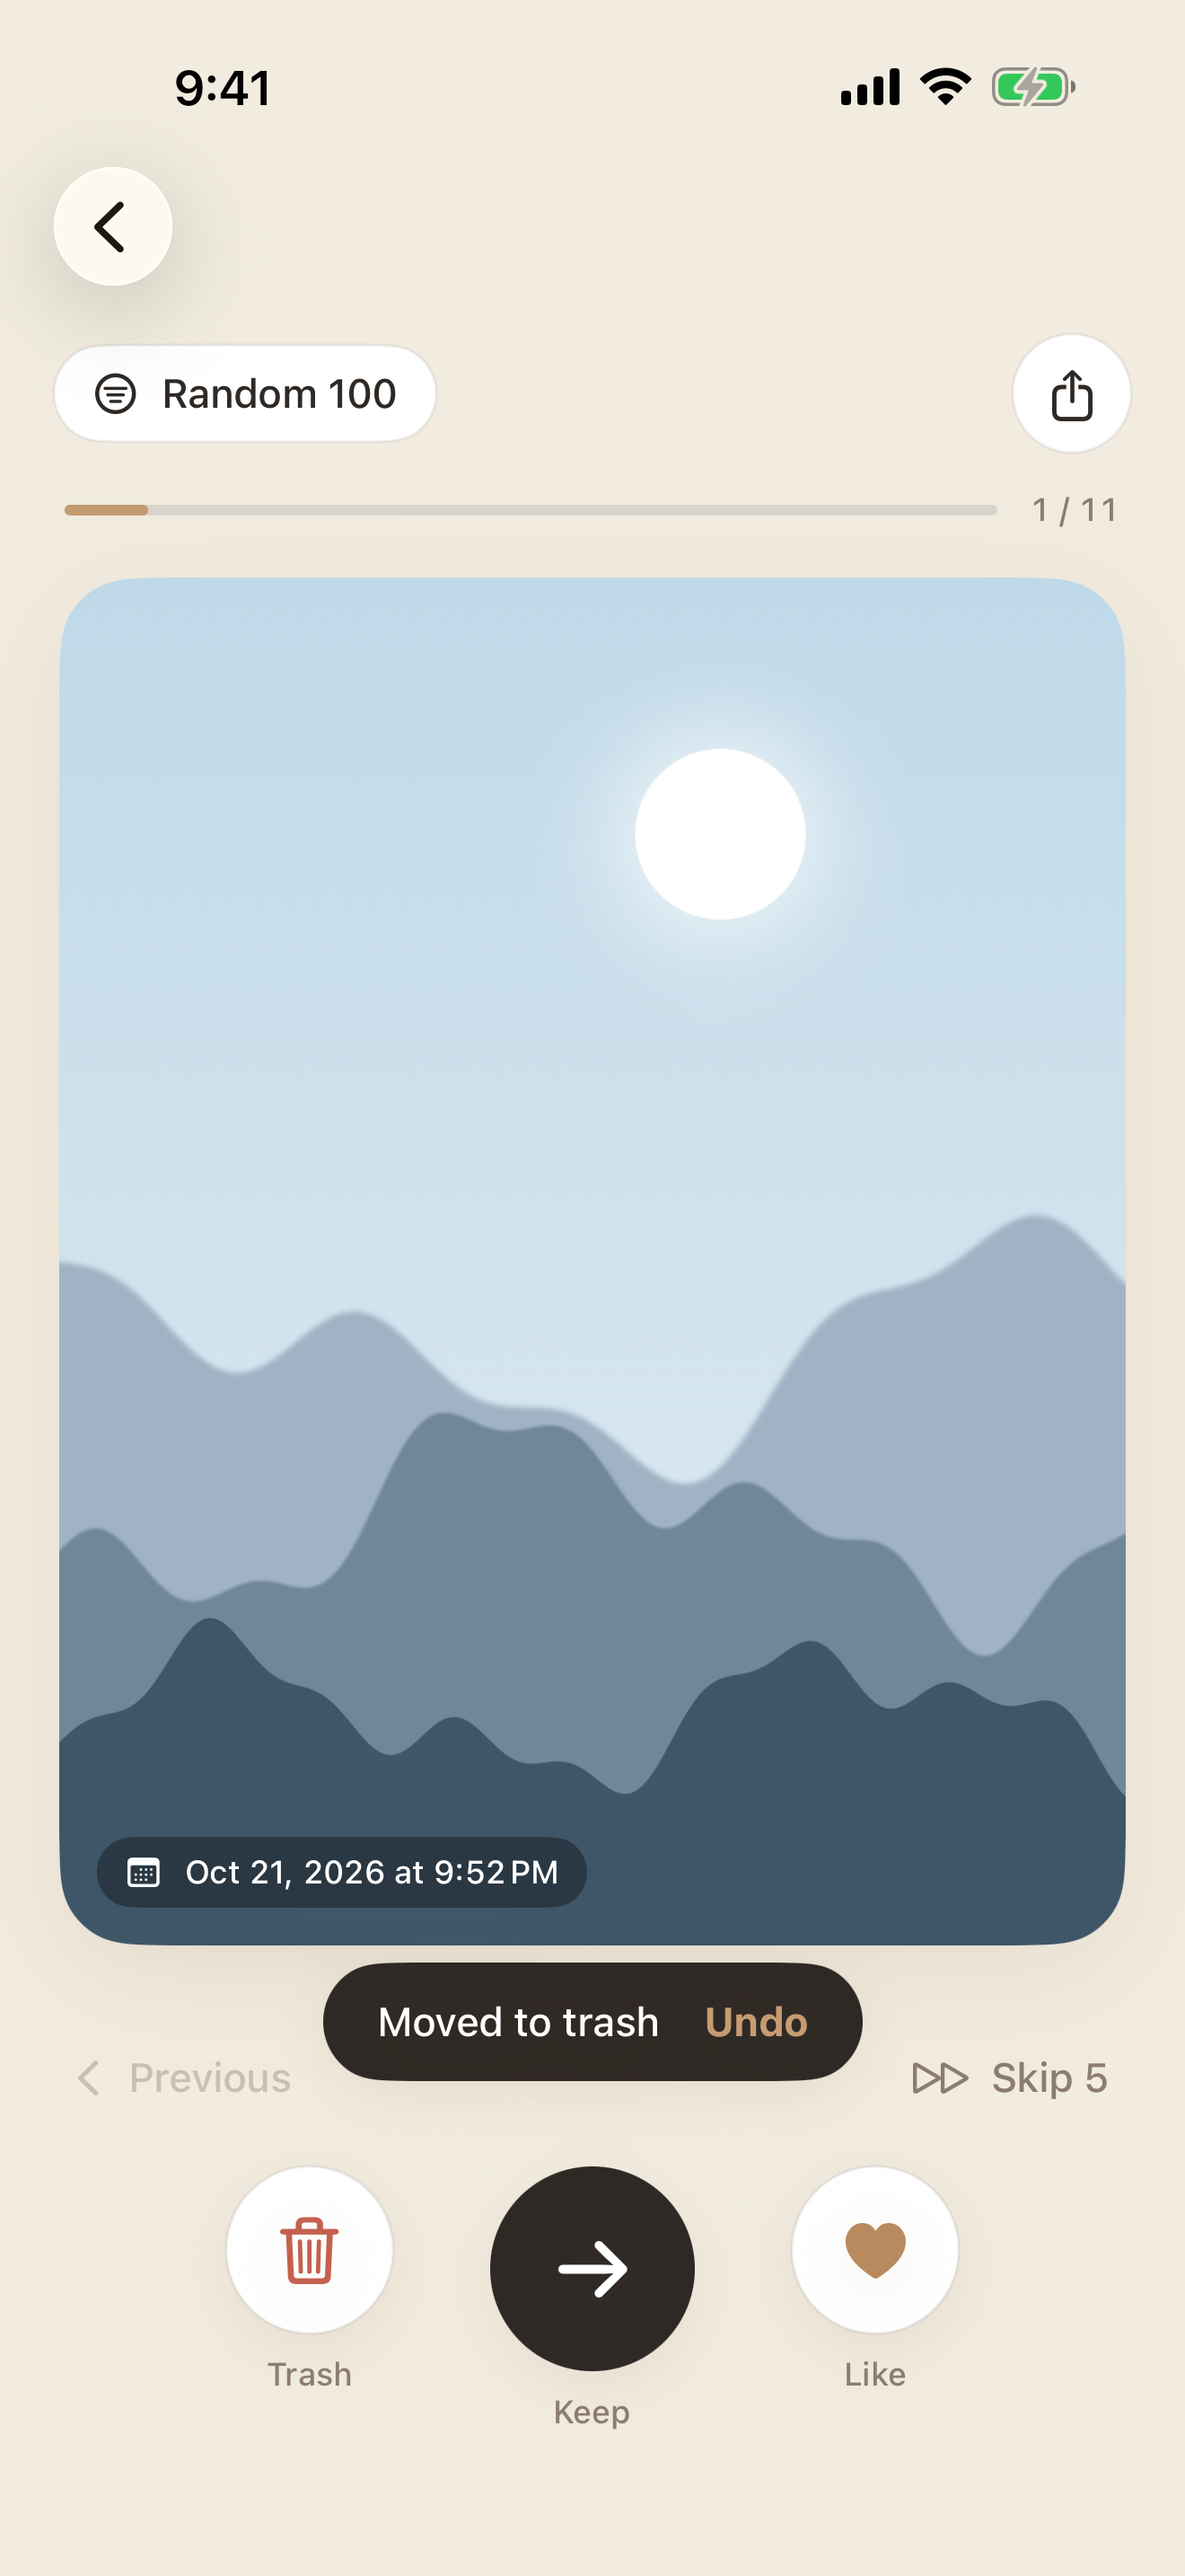
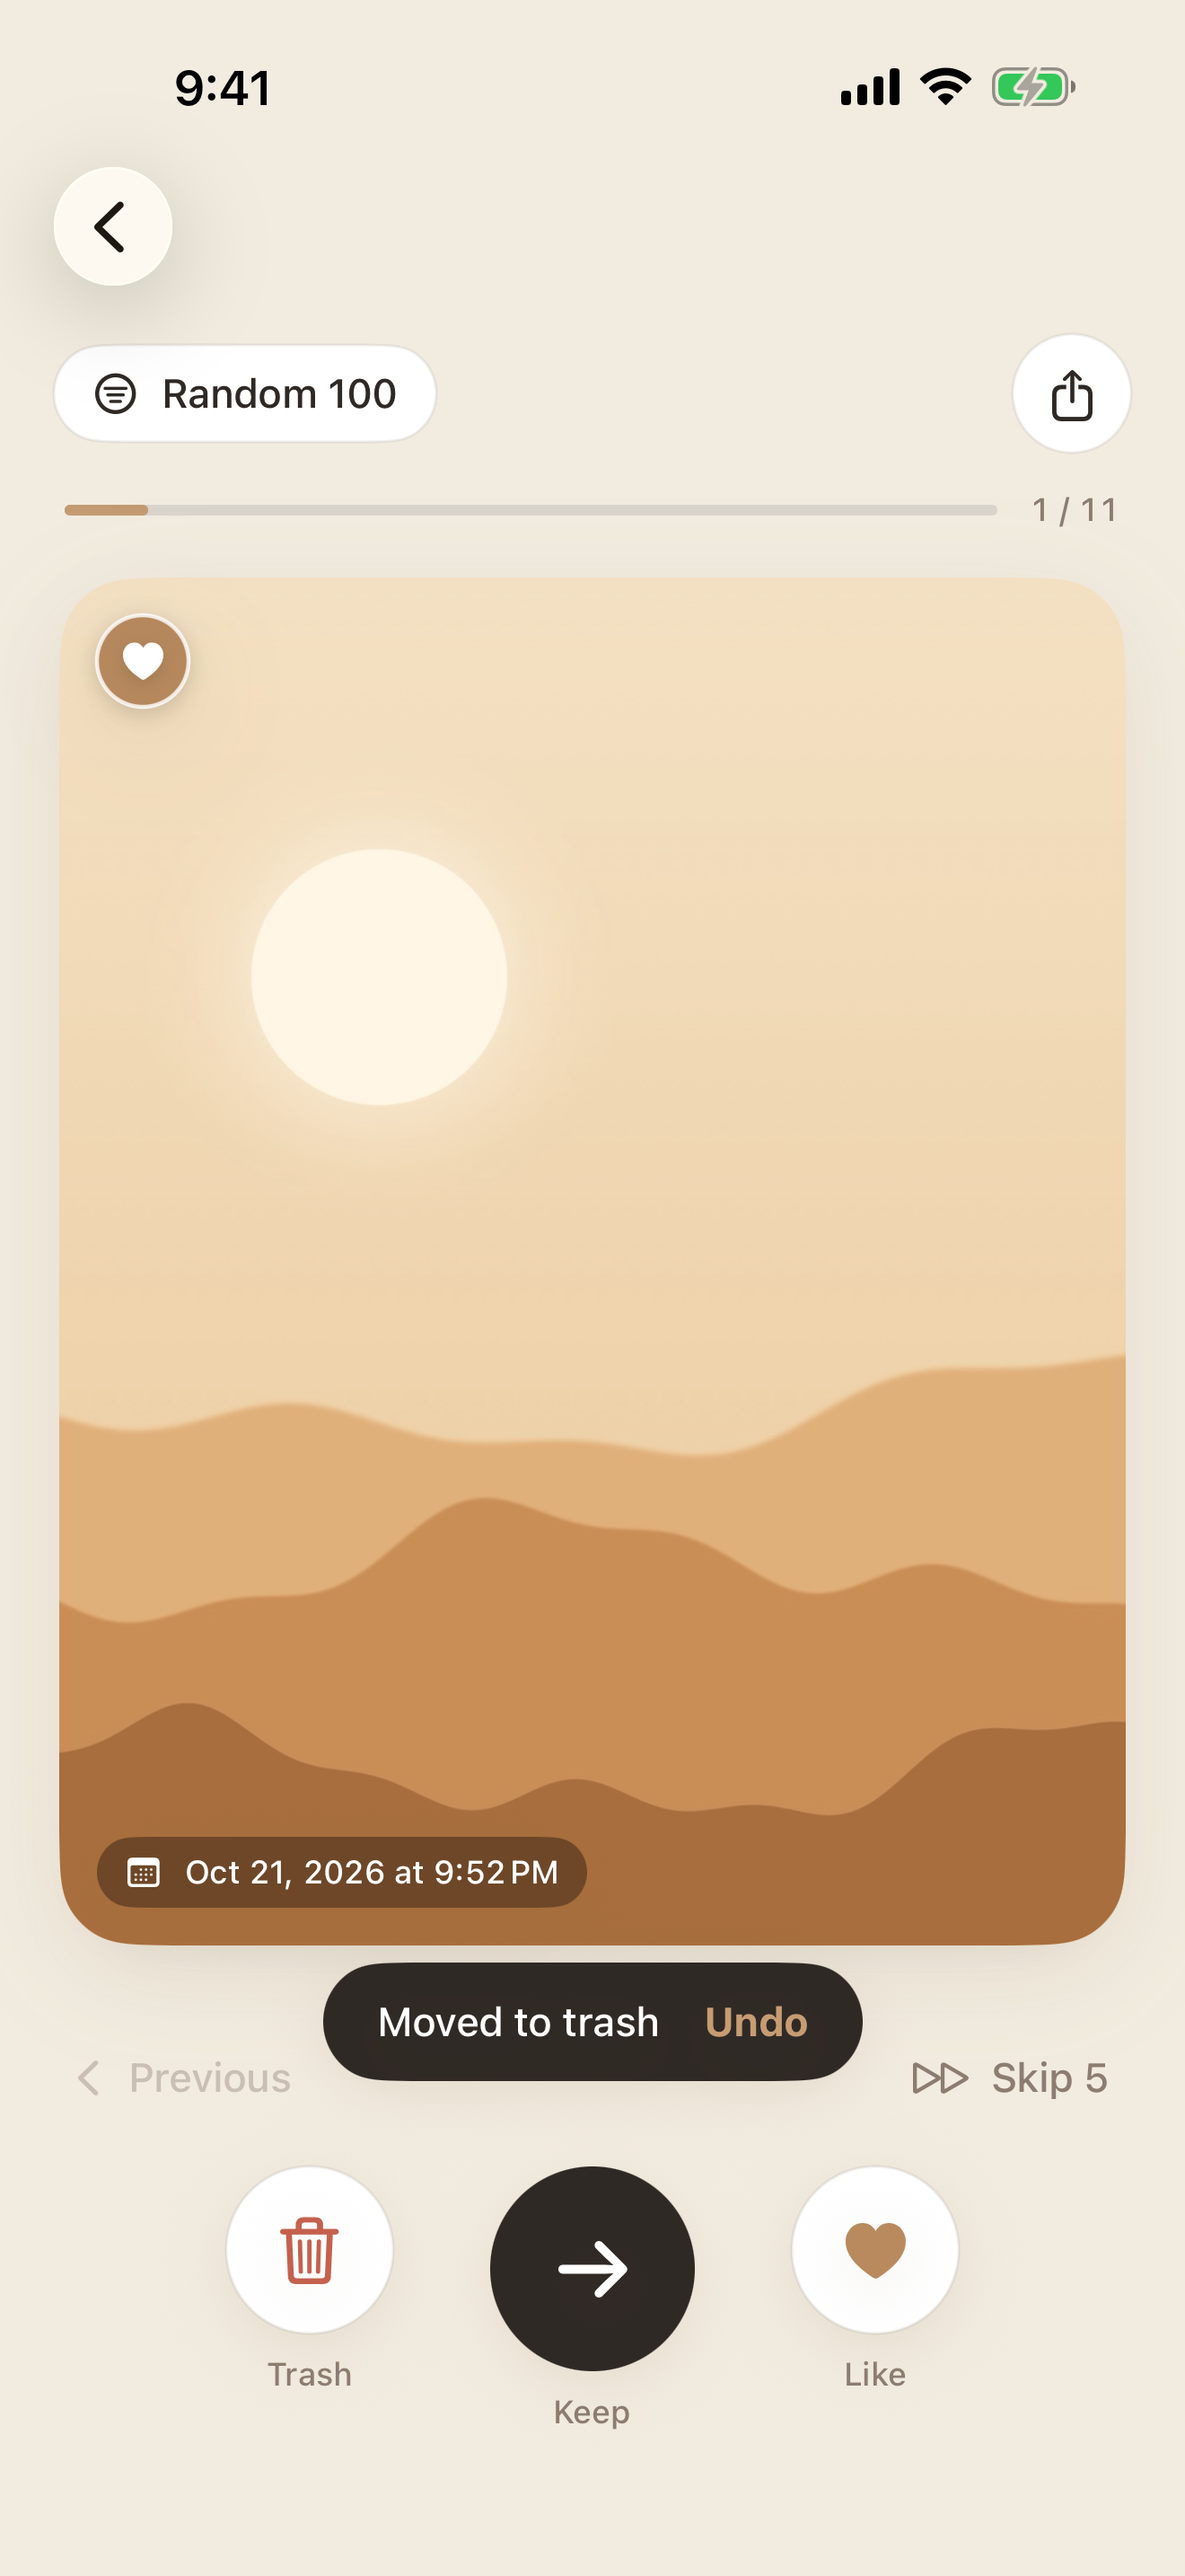
Refresh screenshots and expand README with a visual walkthrough
- Recapture App Store screenshots (ko/en, 6.9") with the card stack,
  liked badge and new filter options
- README: screenshot gallery, screen-by-screen guide, how iCloud photo
  loading works, privacy summary; developer notes for load logging and
  an updated project structure; matching English section

diff --git a/README.md b/README.md
@@ -3,27 +3,133 @@
 **스와이프로 빠르게 끝내는 사진 정리 앱** (iOS)
 
 사진첩에 쌓인 사진을 한 장씩 넘기면서 남길 사진과 지울 사진을 빠르게 고릅니다.
+지운 사진은 바로 사라지지 않고 앱 휴지통에 모여서, 마지막에 한 번 더 확인할 수 있어요.
+
+<p align="center">
+  <img src="docs/screenshots/ko-01-home.png" width="200" alt="홈 화면">
+  <img src="docs/screenshots/ko-02-review.png" width="200" alt="사진 리뷰 화면">
+  <img src="docs/screenshots/ko-05-trash.png" width="200" alt="휴지통 화면">
+</p>
+
+## 한눈에 보기
 
 | 동작 | 결과 |
 |---|---|
-| 👉 오른쪽으로 밀기 | 좋아요 ('사진' 앱 즐겨찾기에 추가) |
-| 👈 왼쪽으로 밀기 | 앱 휴지통으로 이동 (실행 취소 가능) |
-| 👆 탭 | 보관하고 다음 사진으로 |
+| 👉 오른쪽으로 밀기 | **좋아요** — '사진' 앱 즐겨찾기에 추가 |
+| 👈 왼쪽으로 밀기 | **휴지통** — 앱 휴지통으로 이동 (바로 실행 취소 가능) |
+| 👆 탭 | **보관** — 그대로 두고 다음 사진으로 |
 
-## 주요 기능
+스와이프가 어색하면 사진 아래 **휴지통 · 보관 · 좋아요** 버튼으로도 똑같이 할 수 있어요.
 
-- **다양한 필터**: 랜덤 100장, 랜덤 1개월, N년 전 오늘, 최근 7/30일, 월 선택, 스크린샷, 연사, 인물 사진, 즐겨찾기 안 된 사진
-- **안 본 사진만 보기**: 이미 확인한 사진은 건너뛰기
-- **안전한 삭제**: 앱 휴지통에서 다시 확인·복원 → 비우면 '최근 삭제된 항목'으로 이동 (30일 보관)
-- **개인정보 보호**: 모든 처리는 기기 안에서만. 회원가입·서버·광고·분석 도구 없음
-- 한국어 / 영어 지원, Dynamic Type, VoiceOver 라벨
+## 화면별 사용법
 
-## 요구 사항
+<table>
+<tr>
+<td width="260"><img src="docs/screenshots/ko-01-home.png" width="240" alt="홈 화면"></td>
+<td>
+
+### 1. 홈
+
+- **사진 탐색 시작**을 누르면 바로 정리를 시작합니다.
+- 지금까지 **본 사진** 수와 **휴지통**에 모인 사진 수를 한눈에 볼 수 있어요.
+- 오른쪽 위 ⚙ **설정**에서 본 사진 기록을 초기화하거나 사진 접근 권한을 바꿀 수 있고, ❓ **사용법**에서 동작을 다시 확인할 수 있어요.
+
+</td>
+</tr>
+<tr>
+<td><img src="docs/screenshots/ko-02-review.png" width="240" alt="사진 리뷰 화면"></td>
+<td>
+
+### 2. 넘기면서 정리하기
+
+- 사진을 **좌우로 밀거나** 아래 버튼을 눌러 정리합니다. 미는 방향에 따라 "좋아요" / "휴지통" 표시가 점점 진해져요.
+- 위쪽 **진행 막대**로 몇 장 남았는지 확인하고, 사진 왼쪽 아래에서 **찍은 날짜**를 볼 수 있어요.
+- 이미 즐겨찾기에 있는 사진은 왼쪽 위에 **하트 배지**가 붙어요.
+- 다음 사진이 카드 뒤에 미리 준비되어 있어서, 넘기는 순간 바로 선명하게 보여요.
+- **이전**으로 돌아가거나 **5장 건너뛰기**로 빠르게 넘길 수 있고, 오른쪽 위 버튼으로 사진을 **공유**할 수 있어요.
+
+</td>
+</tr>
+<tr>
+<td><img src="docs/screenshots/ko-03-undo.png" width="240" alt="실행 취소"></td>
+<td>
+
+### 3. 실수해도 괜찮아요
+
+- 휴지통으로 보낸 직후 아래에 **실행 취소**가 잠시 나타납니다. 누르면 사진이 원래 자리로 돌아와요.
+- 놓쳤더라도 휴지통 화면에서 언제든 복원할 수 있어요.
+
+</td>
+</tr>
+<tr>
+<td><img src="docs/screenshots/ko-04-filters.png" width="240" alt="필터 선택"></td>
+<td>
+
+### 4. 오늘은 어떤 사진을 정리할까요?
+
+왼쪽 위 필터 버튼으로 정리할 사진을 고릅니다.
+
+- **랜덤 100장** — 부담 없이 조금씩 (기본)
+- **랜덤 1개월** — 잊고 있던 한 달을 꺼내 보기
+- **N년 전 오늘** (±15일) — 그날의 추억을 다시 보며 정리
+- **최근 7일 / 30일**, **원하는 달 선택**
+- **인물 사진**, **즐겨찾기 안 된 사진**, **스크린샷**, **연사**
+- **기기에 있는 사진만 보기** — iCloud에서 받아야 하는 사진은 건너뛰어 기다림 없이 보기
+- **안 본 사진만 보기** — 한 번 넘긴 사진은 다시 나오지 않게
+
+</td>
+</tr>
+<tr>
+<td><img src="docs/screenshots/ko-05-trash.png" width="240" alt="휴지통"></td>
+<td>
+
+### 5. 휴지통에서 마지막 확인
+
+- 왼쪽으로 민 사진은 여기 모입니다. 아직 사진첩에서 지워지지 않았어요.
+- 사진을 **탭하거나 길게 눌러 복원**할 수 있어요.
+- **휴지통 비우기**를 누르면 시스템 확인 창이 뜨고, 확인하면 '사진' 앱의 **최근 삭제된 항목**으로 이동해 30일 동안 한 번 더 되살릴 수 있어요.
+
+</td>
+</tr>
+<tr>
+<td><img src="docs/screenshots/ko-06-guide.png" width="240" alt="사용법"></td>
+<td>
+
+### 6. 사용법
+
+- 홈의 ❓ 버튼에서 스와이프 동작과 휴지통 규칙을 언제든 다시 볼 수 있어요.
+
+</td>
+</tr>
+</table>
+
+## iCloud 사진도 빠르게
+
+'iPhone 저장 공간 최적화'를 쓰면 원본이 iCloud에만 있는 사진이 많아서, 보통은 사진이 선명해질 때까지 기다려야 합니다. mind PIC은 이렇게 기다림을 줄여요.
+
+- **기기에 있는 사진 먼저**: 앞으로 볼 사진 중 기기에 있는 사진을 앞으로 당겨 보여줍니다. 랜덤 100장에서는 iCloud에만 있는 사진을 기기에 있는 다른 사진으로 바꿔 넣어요.
+- **미리 받아 두기**: 기기에 있는 사진을 보는 동안 iCloud 사진을 미리 받아 둡니다. 셀룰러·저데이터 모드·저전력 모드에서는 데이터와 배터리를 아끼려고 미리 받지 않아요.
+- **진행률 표시**: 받는 중인 사진은 오른쪽 위에 진행률이 보이고, 실패하면 **다시 시도**할 수 있어요.
+- **기기에 있는 사진만 보기**: 필터에서 켜면 iCloud 사진을 아예 건너뛰어요.
+
+## 개인정보
+
+- 회원가입·로그인 없음
+- 광고, 분석·추적 도구 없음
+- 모든 사진은 기기 안에서만 처리되며 어디에도 전송되지 않습니다 ([개인정보처리방침](docs/privacy-policy.md))
+
+한국어 / 영어를 지원하고, Dynamic Type(큰 글씨)과 VoiceOver를 지원합니다.
+
+---
+
+## 개발
+
+### 요구 사항
 
 - iPhone, iOS 17.0 이상
 - 개발: Xcode 16 이상
 
-## 빌드
+### 빌드
 
 ```bash
 git clone https://github.com/minD3D/mindPic.git
@@ -34,7 +140,7 @@ open mindPic/mindPIC.xcodeproj
 2. `mindPIC` 스킴으로 실행(⌘R), 테스트(⌘U)합니다.
 3. 시뮬레이터에서는 사진 앱에 사진을 드래그해 넣어 테스트할 수 있습니다.
 
-## App Store 스크린샷
+### App Store 스크린샷
 
 ```bash
 scripts/take-screenshots.sh ~/Pictures/샘플사진   # 사진 폴더는 처음 한 번만
@@ -42,21 +148,26 @@ scripts/take-screenshots.sh ~/Pictures/샘플사진   # 사진 폴더는 처음 
 
 시뮬레이터(기본 iPhone 17 Pro Max, 6.9인치)에 사진 접근을 미리 허용하고 상태바를 정리한 뒤, 한국어/영어로 홈·리뷰·실행 취소·필터·휴지통·사용법 화면을 촬영해 `screenshots/`에 저장합니다. 제출용 최신본은 `docs/screenshots/`에 있습니다. (`DEVICE`, `LANGS`, `OUT_DIR` 환경 변수로 변경 가능)
 
-## 구조
+### 로딩 성능 확인
+
+실제 기기에서 사진이 선명해질 때까지 걸린 시간과 기기/iCloud 사진 수를 로그로 남깁니다. 아이폰을 Mac에 연결하고 **콘솔** 앱에서 기기를 선택한 뒤 `subsystem:mind3d.mindPIC`로 걸러 보세요.
+
+### 구조
 
 ```
 mindPIC/
 ├── MindPICApp.swift            앱 진입점
 ├── ContentView.swift           스플래시 → 홈
-├── HomeView.swift              홈 화면
+├── HomeView.swift              홈 화면 (본 사진 / 휴지통 수)
 ├── HomeSheets.swift            설정 / 사용법 시트
-├── PhotoReviewView.swift       스와이프 리뷰 화면, 필터 시트
-├── PhotoReviewViewModel.swift  필터별 사진 조회(백그라운드), 이동/좋아요/삭제/실행 취소, 프리히팅
+├── PhotoReviewView.swift       스와이프 리뷰 화면 (카드 스택), 필터 시트
+├── PhotoReviewViewModel.swift  필터별 사진 조회(백그라운드), 이동/좋아요/삭제/실행 취소,
+│                               기기 사진 우선 정렬, 프리히팅
 ├── TrashView.swift             휴지통 (복원, 비우기)
-├── AssetImageView.swift        썸네일 → 고해상도 단계 로딩
+├── AssetImageView.swift        미리보기 → 고해상도 로딩, iCloud 진행률 / 실패 처리
 ├── ReviewStateStore.swift      본 사진 / 휴지통 ID 저장 (UserDefaults)
 ├── PhotoModels.swift           PhotoItem, PhotoFilterType
-├── PhotoHelpers.swift          권한 요청, 이미지 요청 스펙
+├── PhotoHelpers.swift          권한 요청, 이미지 요청 스펙, 네트워크 상태, 로딩 로그
 ├── Theme.swift                 색상, 폰트, 공통 컴포넌트
 ├── Localizable.xcstrings       화면 문구 (ko, en)
 ├── InfoPlist.xcstrings         권한 안내 문구 (ko, en)
@@ -65,9 +176,9 @@ mindPIC/
 
 - **UI**: SwiftUI
 - **사진**: PhotoKit (`PHAsset`, `PHCachingImageManager`)
-- **테스트**: Swift Testing (`mindPICTests`)
+- **테스트**: Swift Testing (`mindPICTests`), XCTest UI 테스트 (`mindPICUITests`)
 
-## 출시
+### 출시
 
 ```bash
 scripts/release.sh   # 단위 테스트 → Archive → App Store Connect 업로드
@@ -89,12 +200,29 @@ App Store Connect 입력값과 순서는 [출시 체크리스트](docs/release-c
 
 # mind PIC (English)
 
-**Swipe through your camera roll and clean it up fast.** An iOS app for reviewing photos one at a time: swipe right to favorite, swipe left to trash (with undo), tap to keep.
+**Swipe through your camera roll and clean it up fast.** Review your photos one at a time and decide what to keep and what to let go. Trashed photos aren't deleted right away — they wait in the in-app trash so you can check them one last time.
 
-- Filters: random 100, random month, on this day N years ago, last 7/30 days, any month, screenshots, bursts, portraits, non-favorites
-- Safe deletion: review and restore from the in-app trash; emptying it moves photos to "Recently Deleted" (kept for 30 days)
-- Private by design: everything runs on-device — no account, server, ads, or analytics
-- Korean and English, Dynamic Type, VoiceOver labels
-- Requires iPhone with iOS 17.0+; built with SwiftUI and PhotoKit
+<p align="center">
+  <img src="docs/screenshots/en-01-home.png" width="200" alt="Home">
+  <img src="docs/screenshots/en-02-review.png" width="200" alt="Reviewing photos">
+  <img src="docs/screenshots/en-05-trash.png" width="200" alt="Trash">
+</p>
+
+| Gesture | Result |
+|---|---|
+| 👉 Swipe right | **Like** — adds to Favorites in the Photos app |
+| 👈 Swipe left | **Trash** — moves to the in-app trash (undo right away) |
+| 👆 Tap | **Keep** — leave it and see the next photo |
+
+Prefer buttons? **Trash · Keep · Like** sit right below the photo.
+
+- **Home**: see how many photos you've reviewed and trashed, then tap **Start Reviewing**.
+- **Review**: a progress bar shows how far you are, the capture date sits on the photo, and photos already in Favorites get a heart badge. The next photo waits behind the current card, so it's sharp the moment you swipe.
+- **Undo**: tap **Undo** right after trashing a photo, or restore it later from the trash.
+- **Filters**: Random 100, random month, on this day N years ago (±15 days), last 7/30 days, any month, portraits, not in Favorites, screenshots, bursts — plus **On-Device Photos Only** and **Unseen Only**.
+- **Trash**: tap or long-press to restore. **Empty Trash** moves photos to "Recently Deleted" in the Photos app, where they stay for 30 days.
+- **Fast with iCloud Photos**: on-device photos are shown first and iCloud-only photos are downloaded ahead of time (not on cellular, Low Data, or Low Power mode), with a progress ring and Retry if a download fails.
+- **Private by design**: no account, no ads, no analytics — everything stays on your device.
+- Korean and English, Dynamic Type, VoiceOver. Requires iPhone with iOS 17.0+; built with SwiftUI and PhotoKit.
 
 [Support & FAQ](docs/support.md#mind-pic-support-english) · [Privacy Policy](docs/privacy-policy.md#mind-pic-privacy-policy-english)
